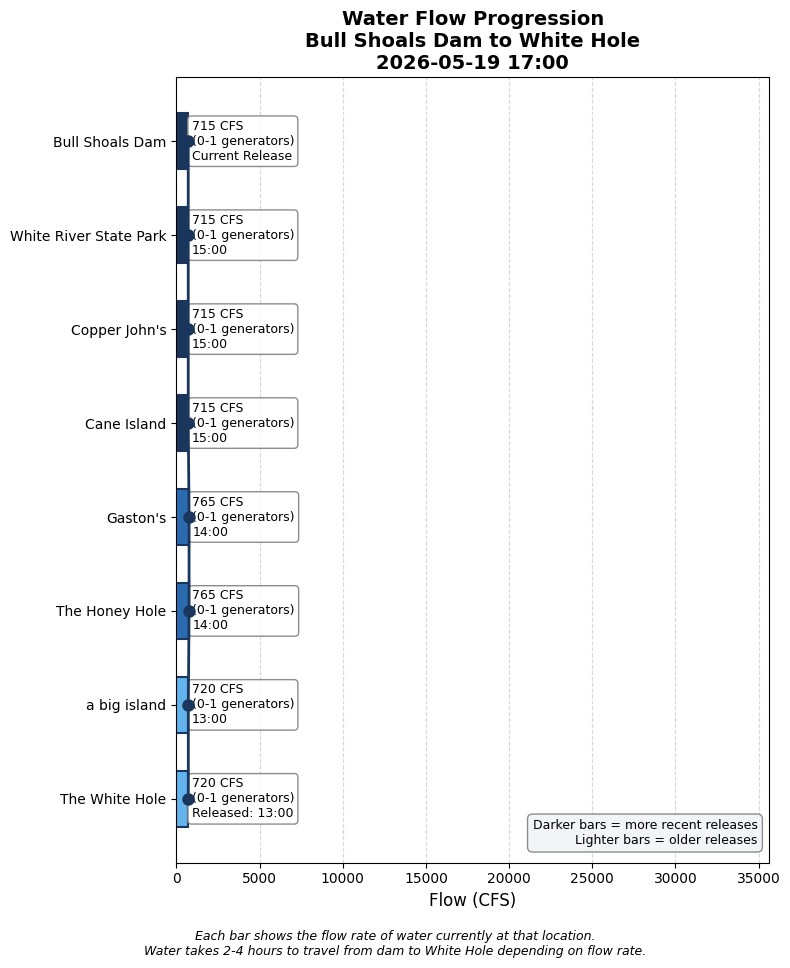
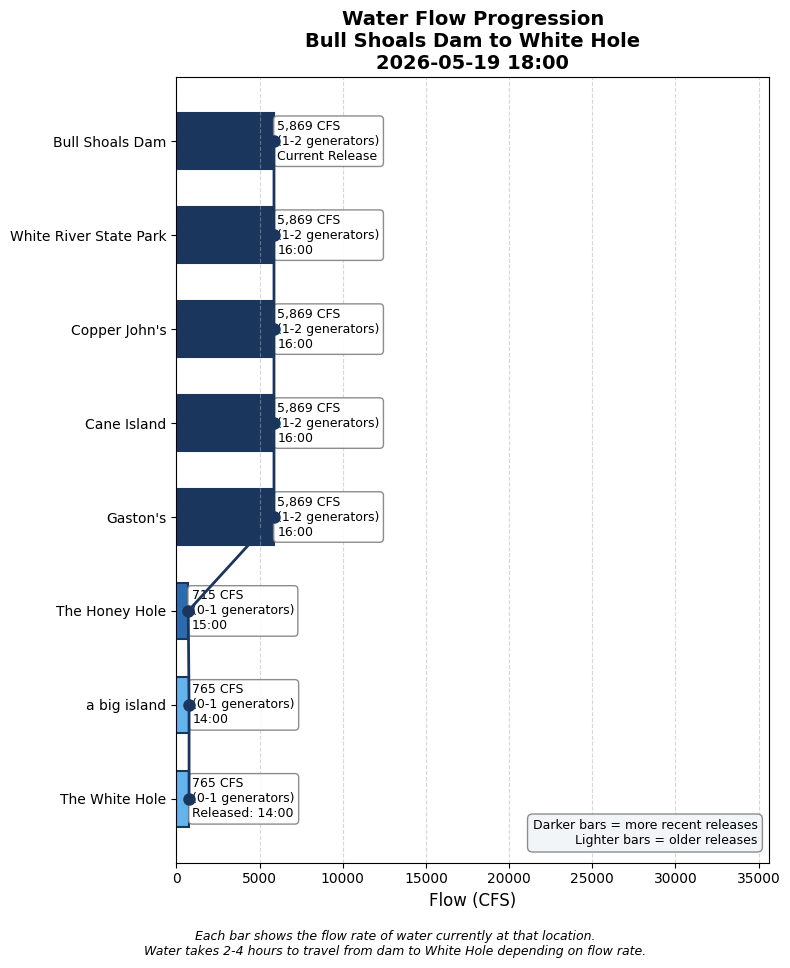
Update water conditions 2026-05-19 18:00

diff --git a/white_hole_conditions.html b/white_hole_conditions.html
@@ -3,7 +3,7 @@
 <head>
     <meta charset="UTF-8">
     <meta name="viewport" content="width=device-width, initial-scale=1.0">
-    <title>White Hole Conditions - 2026-05-19 17:00</title>
+    <title>White Hole Conditions - 2026-05-19 18:00</title>
     <style>
         body {
             font-family: -apple-system, BlinkMacSystemFont, 'Segoe UI', Roboto, sans-serif;
@@ -148,19 +148,19 @@
 </head>
 <body>
     <h1>White Hole Current Conditions</h1>
-    <p class="subtitle">Tuesday, May 19, 2026 at 05:00 PM</p>
+    <p class="subtitle">Tuesday, May 19, 2026 at 06:00 PM</p>
 
     <!-- HEADLINE BANNER -->
     <div class="headline-banner">
         <div class="main-status">✅ GOOD WADING — Conditions favorable</div>
-        <div class="forecast-status">➡ STABLE CONDITIONS expected</div>
-        <div class="forecast-status" style="margin-top: 5px; opacity: 0.9;">📅 HIGH WATER SCHEDULED — ~7:25 PM</div>
+        <div class="forecast-status">⏱ RISING WATER arriving in ~43 minutes</div>
+        <div class="forecast-status" style="margin-top: 5px; opacity: 0.9;">📅 HIGH WATER SCHEDULED — ~8:56 PM</div>
     </div>
 
     <!-- CURRENT CONDITIONS -->
     <div class="current-conditions">
         <h3>Current Conditions at White Hole</h3>
-        <div class="flow-display">720 CFS</div>
+        <div class="flow-display">765 CFS</div>
         <div class="generator-display">Equivalent to 0-1 generators</div>
         <div class="condition-pills">
             <span class="pill wading">Excellent Wading</span>
@@ -189,6 +189,14 @@
                 <tr><td colspan="3" style="padding: 8px 10px; font-size: 0.8em; font-weight: bold; color: #6b46c1; text-transform: uppercase; letter-spacing: 0.05em; background-color: #f3e8ff;">Scheduled (SWPA forecast)</td></tr>
                 
                     <tr style="background-color: #faf5ff; ">
+                        <td style="padding: 10px; font-weight: bold;">9 PM</td>
+                        <td style="padding: 10px;">723 CFS<br><small style="color: #666;">(0-1 generators: 473 generation + 250 min flow)</small></td>
+                        <td style="padding: 10px;">~12:44 AM
+                            <span style="display: inline-block; margin-left: 6px; padding: 2px 8px; border-radius: 12px; font-size: 0.8em; background-color: #d1fae5; color: #065f46;">Excellent Wading</span>
+                        </td>
+                    </tr>
+                
+                    <tr style="background-color: #faf5ff; ">
                         <td style="padding: 10px; font-weight: bold;">8 PM</td>
                         <td style="padding: 10px;">723 CFS<br><small style="color: #666;">(0-1 generators: 473 generation + 250 min flow)</small></td>
                         <td style="padding: 10px;">~11:44 PM
@@ -212,39 +220,31 @@
                         </td>
                     </tr>
                 
-                    <tr style="background-color: #faf5ff; border-left: 4px solid #e53e3e;">
-                        <td style="padding: 10px; font-weight: bold;">5 PM</td>
-                        <td style="padding: 10px;">13,416 CFS<br><small style="color: #666;">(4 generators: 13166 generation + 250 min flow)</small></td>
-                        <td style="padding: 10px;">~7:25 PM
-                            <span style="display: inline-block; margin-left: 6px; padding: 2px 8px; border-radius: 12px; font-size: 0.8em; background-color: #fee2e2; color: #991b1b;">No Wading</span>
-                        </td>
-                    </tr>
-                
             
                     
                 <tr><td colspan="3" style="padding: 8px 10px; font-size: 0.8em; font-weight: bold; color: #2b6cb0; text-transform: uppercase; letter-spacing: 0.05em; background-color: #ebf8ff;">Actual (dam readings)</td></tr>
                 
                     <tr style="background-color: #ebf8ff;">
-                        <td style="padding: 10px; font-weight: bold;">3:00 PM</td>
-                        <td style="padding: 10px;">715 CFS<br><small style="color: #666;">(0-1 generators)</small></td>
-                        <td style="padding: 10px;"><span style="color: #2b6cb0;">→ Arrives ~6:44 PM (in 103 min)</span></td>
+                        <td style="padding: 10px; font-weight: bold;">4:00 PM</td>
+                        <td style="padding: 10px;">5,869 CFS<br><small style="color: #666;">(1-2 generators)</small></td>
+                        <td style="padding: 10px;"><span style="color: #2b6cb0;">→ Arrives ~7:05 PM (in 65 min)</span></td>
                     </tr>
                 
                     <tr style="background-color: #ebf8ff;">
-                        <td style="padding: 10px; font-weight: bold;">2:00 PM</td>
-                        <td style="padding: 10px;">765 CFS<br><small style="color: #666;">(0-1 generators)</small></td>
-                        <td style="padding: 10px;"><span style="color: #2b6cb0;">→ Arrives ~5:44 PM (in 43 min)</span></td>
+                        <td style="padding: 10px; font-weight: bold;">3:00 PM</td>
+                        <td style="padding: 10px;">715 CFS<br><small style="color: #666;">(0-1 generators)</small></td>
+                        <td style="padding: 10px;"><span style="color: #2b6cb0;">→ Arrives ~6:44 PM (in 43 min)</span></td>
                     </tr>
                 
                     <tr style="background-color: #e6fffa;">
-                        <td style="padding: 10px; font-weight: bold;">1:00 PM</td>
-                        <td style="padding: 10px;">720 CFS<br><small style="color: #666;">(0-1 generators)</small></td>
+                        <td style="padding: 10px; font-weight: bold;">2:00 PM</td>
+                        <td style="padding: 10px;">765 CFS<br><small style="color: #666;">(0-1 generators)</small></td>
                         <td style="padding: 10px;"><span style="color: #319795; font-weight: bold;">← AT WHITE HOLE NOW</span></td>
                     </tr>
                 
                     <tr style="">
-                        <td style="padding: 10px; font-weight: bold;">10:00 AM</td>
-                        <td style="padding: 10px;">753 CFS<br><small style="color: #666;">(0-1 generators)</small></td>
+                        <td style="padding: 10px; font-weight: bold;">11:00 AM</td>
+                        <td style="padding: 10px;">721 CFS<br><small style="color: #666;">(0-1 generators)</small></td>
                         <td style="padding: 10px;"><span style="color: #718096;">passed</span></td>
                     </tr>
                 
@@ -274,9 +274,9 @@
         </summary>
         <div style="padding: 15px;">
             <ul>
-                <li>Latest dam reading: 715 CFS at 2026-05-19 15:00</li>
+                <li>Latest dam reading: 5,869 CFS at 2026-05-19 16:00</li>
                 <li>Travel time to White Hole: 3.7 hours at current flow</li>
-                <li>White Hole conditions based on dam reading from: 2026-05-19 13:00</li>
+                <li>White Hole conditions based on dam reading from: 2026-05-19 14:00</li>
             </ul>
         </div>
     </details>
@@ -298,6 +298,13 @@
                     </thead>
                     <tbody>
                         
+                <tr style="border-bottom: 1px solid #eee;">
+                    <td style="padding: 8px;">2026-05-19 16:00</td>
+                    <td style="padding: 8px; text-align: right;">5869</td>
+                    <td style="padding: 8px; text-align: right;">1.8</td>
+                    <td style="padding: 8px; text-align: right;">3.1</td>
+                </tr>
+                
                 <tr style="border-bottom: 1px solid #eee;">
                     <td style="padding: 8px;">2026-05-19 15:00</td>
                     <td style="padding: 8px; text-align: right;">715</td>
@@ -361,13 +368,6 @@
                     <td style="padding: 8px; text-align: right;">3.7</td>
                 </tr>
                 
-                <tr style="border-bottom: 1px solid #eee;">
-                    <td style="padding: 8px;">2026-05-19 06:00</td>
-                    <td style="padding: 8px; text-align: right;">763</td>
-                    <td style="padding: 8px; text-align: right;">0.2</td>
-                    <td style="padding: 8px; text-align: right;">3.7</td>
-                </tr>
-                
                     </tbody>
                 </table>
             </div>
@@ -375,7 +375,7 @@
         
 
     <div class="timestamp">
-        Data retrieved and processed on 2026-05-19 17:00:07
+        Data retrieved and processed on 2026-05-19 18:00:09
     </div>
 </body>
 </html>
